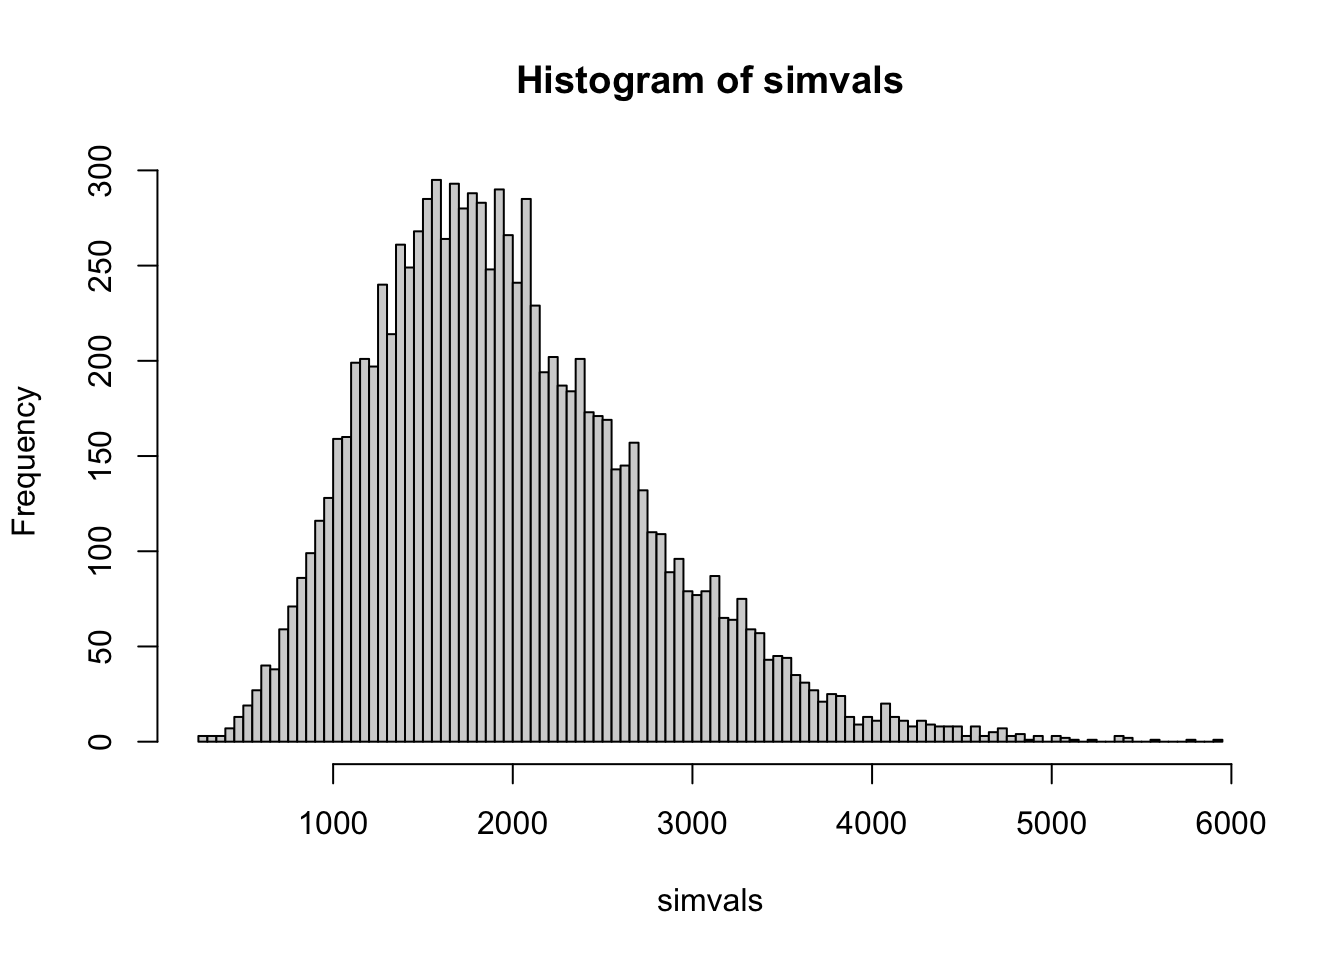
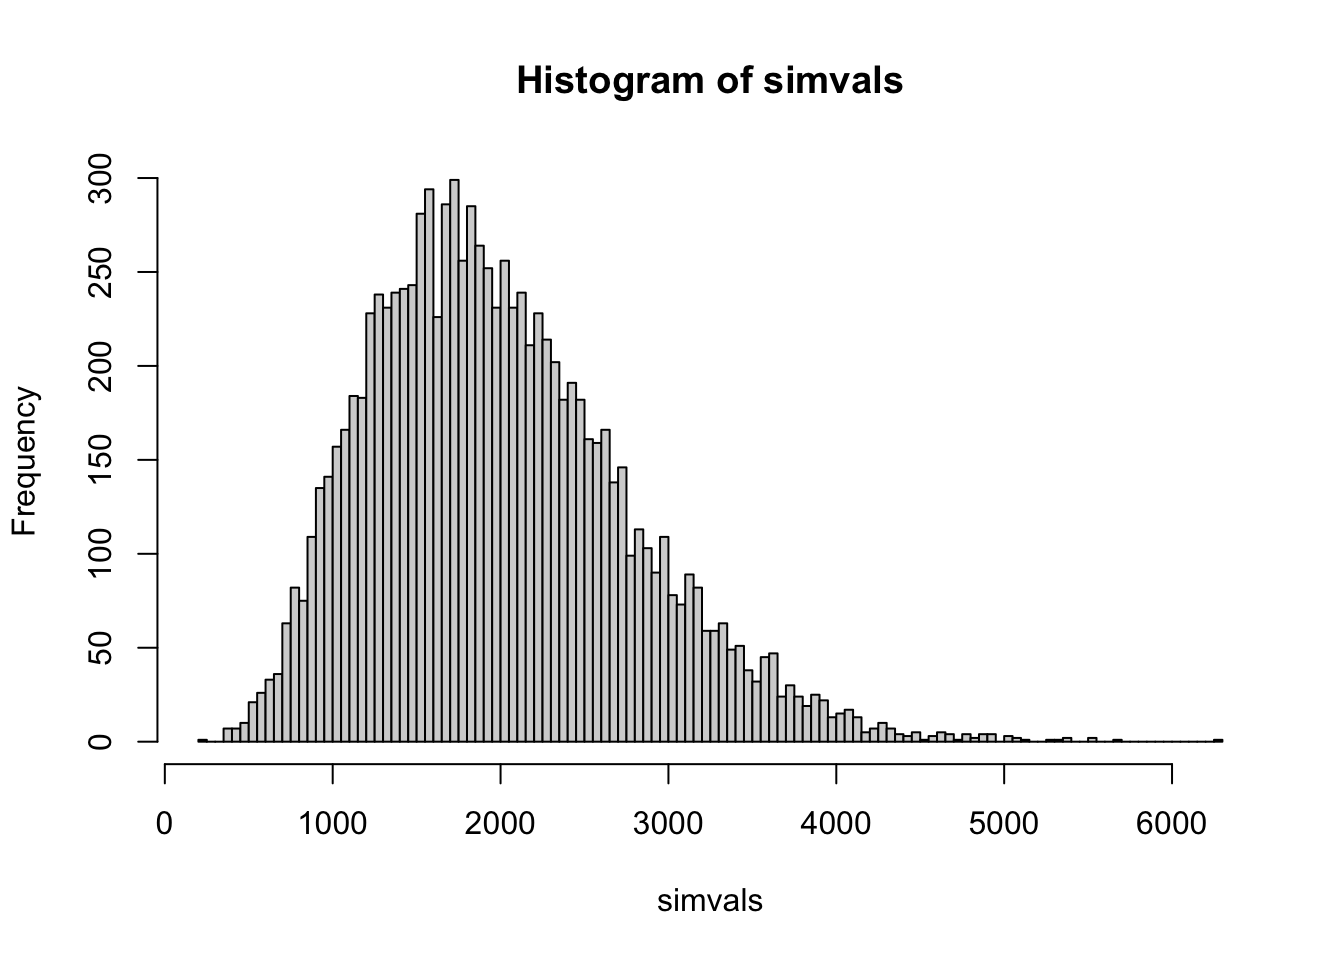
Built site for gh-pages

diff --git a/06_1_stats_1.html b/06_1_stats_1.html
@@ -710,7 +710,7 @@ $y
         }
     }
 }
-&lt;bytecode: 0x151ce2630&gt;
+&lt;bytecode: 0x125b37030&gt;
 &lt;environment: namespace:methods&gt;</code></pre>
 </div>
 </div>
@@ -860,18 +860,18 @@ lm(formula = y ~ x, data = z)
 
 Residuals:
      Min       1Q   Median       3Q      Max 
--31.6218  -6.7877  -0.2353   6.6923  28.0337 
+-22.3859  -6.2026   0.0289   6.6870  26.6511 
 
 Coefficients:
             Estimate Std. Error t value Pr(&gt;|t|)    
-(Intercept) 24.94846    0.81749   30.52   &lt;2e-16 ***
-x            4.94985    0.05709   86.70   &lt;2e-16 ***
+(Intercept) 24.19929    0.73768   32.80   &lt;2e-16 ***
+x            5.05700    0.05084   99.47   &lt;2e-16 ***
 ---
 Signif. codes:  0 '***' 0.001 '**' 0.01 '*' 0.05 '.' 0.1 ' ' 1
 
-Residual standard error: 10.03 on 298 degrees of freedom
-Multiple R-squared:  0.9619,    Adjusted R-squared:  0.9617 
-F-statistic:  7517 on 1 and 298 DF,  p-value: &lt; 2.2e-16</code></pre>
+Residual standard error: 9.192 on 298 degrees of freedom
+Multiple R-squared:  0.9708,    Adjusted R-squared:  0.9707 
+F-statistic:  9893 on 1 and 298 DF,  p-value: &lt; 2.2e-16</code></pre>
 </div>
 </div>
 <p>Add a trendline to our scatter plot:</p>
@@ -899,18 +899,18 @@ lm(formula = y ~ x, data = z)
 
 Residuals:
      Min       1Q   Median       3Q      Max 
--31.6218  -6.7877  -0.2353   6.6923  28.0337 
+-22.3859  -6.2026   0.0289   6.6870  26.6511 
 
 Coefficients:
             Estimate Std. Error t value Pr(&gt;|t|)    
-(Intercept) 24.94846    0.81749   30.52   &lt;2e-16 ***
-x            4.94985    0.05709   86.70   &lt;2e-16 ***
+(Intercept) 24.19929    0.73768   32.80   &lt;2e-16 ***
+x            5.05700    0.05084   99.47   &lt;2e-16 ***
 ---
 Signif. codes:  0 '***' 0.001 '**' 0.01 '*' 0.05 '.' 0.1 ' ' 1
 
-Residual standard error: 10.03 on 298 degrees of freedom
-Multiple R-squared:  0.9619,    Adjusted R-squared:  0.9617 
-F-statistic:  7517 on 1 and 298 DF,  p-value: &lt; 2.2e-16</code></pre>
+Residual standard error: 9.192 on 298 degrees of freedom
+Multiple R-squared:  0.9708,    Adjusted R-squared:  0.9707 
+F-statistic:  9893 on 1 and 298 DF,  p-value: &lt; 2.2e-16</code></pre>
 </div>
 </div>
 <p>For many years, a different pipe operator was the only one available: <code>%&gt;%</code> It was part of the package <code>magrittr</code>, and then later the <code>tidyverse</code> set of packages. You will probably still see it around a lot and there are <a href="https://www.tidyverse.org/blog/2023/04/base-vs-magrittr-pipe/">some differences</a>.</p>

diff --git a/04_3_retrieving_data.html b/04_3_retrieving_data.html
@@ -794,7 +794,7 @@ C</code></pre>
 <span id="annotated-cell-32-28"><a href="#annotated-cell-32-28" aria-hidden="true" tabindex="-1"></a><span class="fu">mkdir</span> <span class="at">-p</span> <span class="va">$TRIMDIR</span></span>
 <span id="annotated-cell-32-29"><a href="#annotated-cell-32-29" aria-hidden="true" tabindex="-1"></a></span>
 <span id="annotated-cell-32-30"><a href="#annotated-cell-32-30" aria-hidden="true" tabindex="-1"></a><span class="co"># adapters to trim out</span></span>
-<a class="code-annotation-anchor" data-target-cell="annotated-cell-32" data-target-annotation="4" onclick="event.preventDefault();">4</a><span id="annotated-cell-32-31" class="code-annotation-target"><a href="#annotated-cell-32-31" aria-hidden="true" tabindex="-1"></a><span class="va">ADAPTERS</span><span class="op">=</span>/isg/shared/apps/Trimmomatic/0.39/adapters/TruSeq3-SE.fa</span>
+<a class="code-annotation-anchor" data-target-cell="annotated-cell-32" data-target-annotation="4" onclick="event.preventDefault();">4</a><span id="annotated-cell-32-31" class="code-annotation-target"><a href="#annotated-cell-32-31" aria-hidden="true" tabindex="-1"></a><span class="va">ADAPTERS</span><span class="op">=</span>/isg/shared/apps/Trimmomatic/0.39/adapters/TruSeq3-PE-2.fa</span>
 <span id="annotated-cell-32-32"><a href="#annotated-cell-32-32" aria-hidden="true" tabindex="-1"></a></span>
 <span id="annotated-cell-32-33"><a href="#annotated-cell-32-33" aria-hidden="true" tabindex="-1"></a><span class="co"># accession list</span></span>
 <span id="annotated-cell-32-34"><a href="#annotated-cell-32-34" aria-hidden="true" tabindex="-1"></a><span class="va">ACCLIST</span><span class="op">=</span>../../metadata/accessionlist.txt</span>

diff --git a/07_1-3_chapters/rnseq_erkc/scripts/quarto_chapters/07_3_differential_expression.html b/07_1-3_chapters/rnseq_erkc/scripts/quarto_chapters/07_3_differential_expression.html
@@ -610,7 +610,7 @@ low counts [2]     : 0, 0%
 <span id="cb15-4"><a href="#cb15-4" aria-hidden="true" tabindex="-1"></a><span class="fu">quantile</span>(simvals, <span class="at">prob=</span><span class="fu">c</span>(<span class="fl">0.025</span>,<span class="fl">0.975</span>))</span></code><button title="Copy to Clipboard" class="code-copy-button"><i class="bi"></i></button></pre></div>
 <div class="cell-output cell-output-stdout">
 <pre><code>    2.5%    97.5% 
- 778.000 3733.125 </code></pre>
+ 779.000 3717.025 </code></pre>
 </div>
 <div class="sourceCode cell-code" id="cb17"><pre class="sourceCode r code-with-copy"><code class="sourceCode r"><span id="cb17-1"><a href="#cb17-1" aria-hidden="true" tabindex="-1"></a><span class="co"># make a histogram using base R</span></span>
 <span id="cb17-2"><a href="#cb17-2" aria-hidden="true" tabindex="-1"></a><span class="fu">hist</span>(simvals, <span class="at">breaks=</span><span class="dv">100</span>)</span></code><button title="Copy to Clipboard" class="code-copy-button"><i class="bi"></i></button></pre></div>
